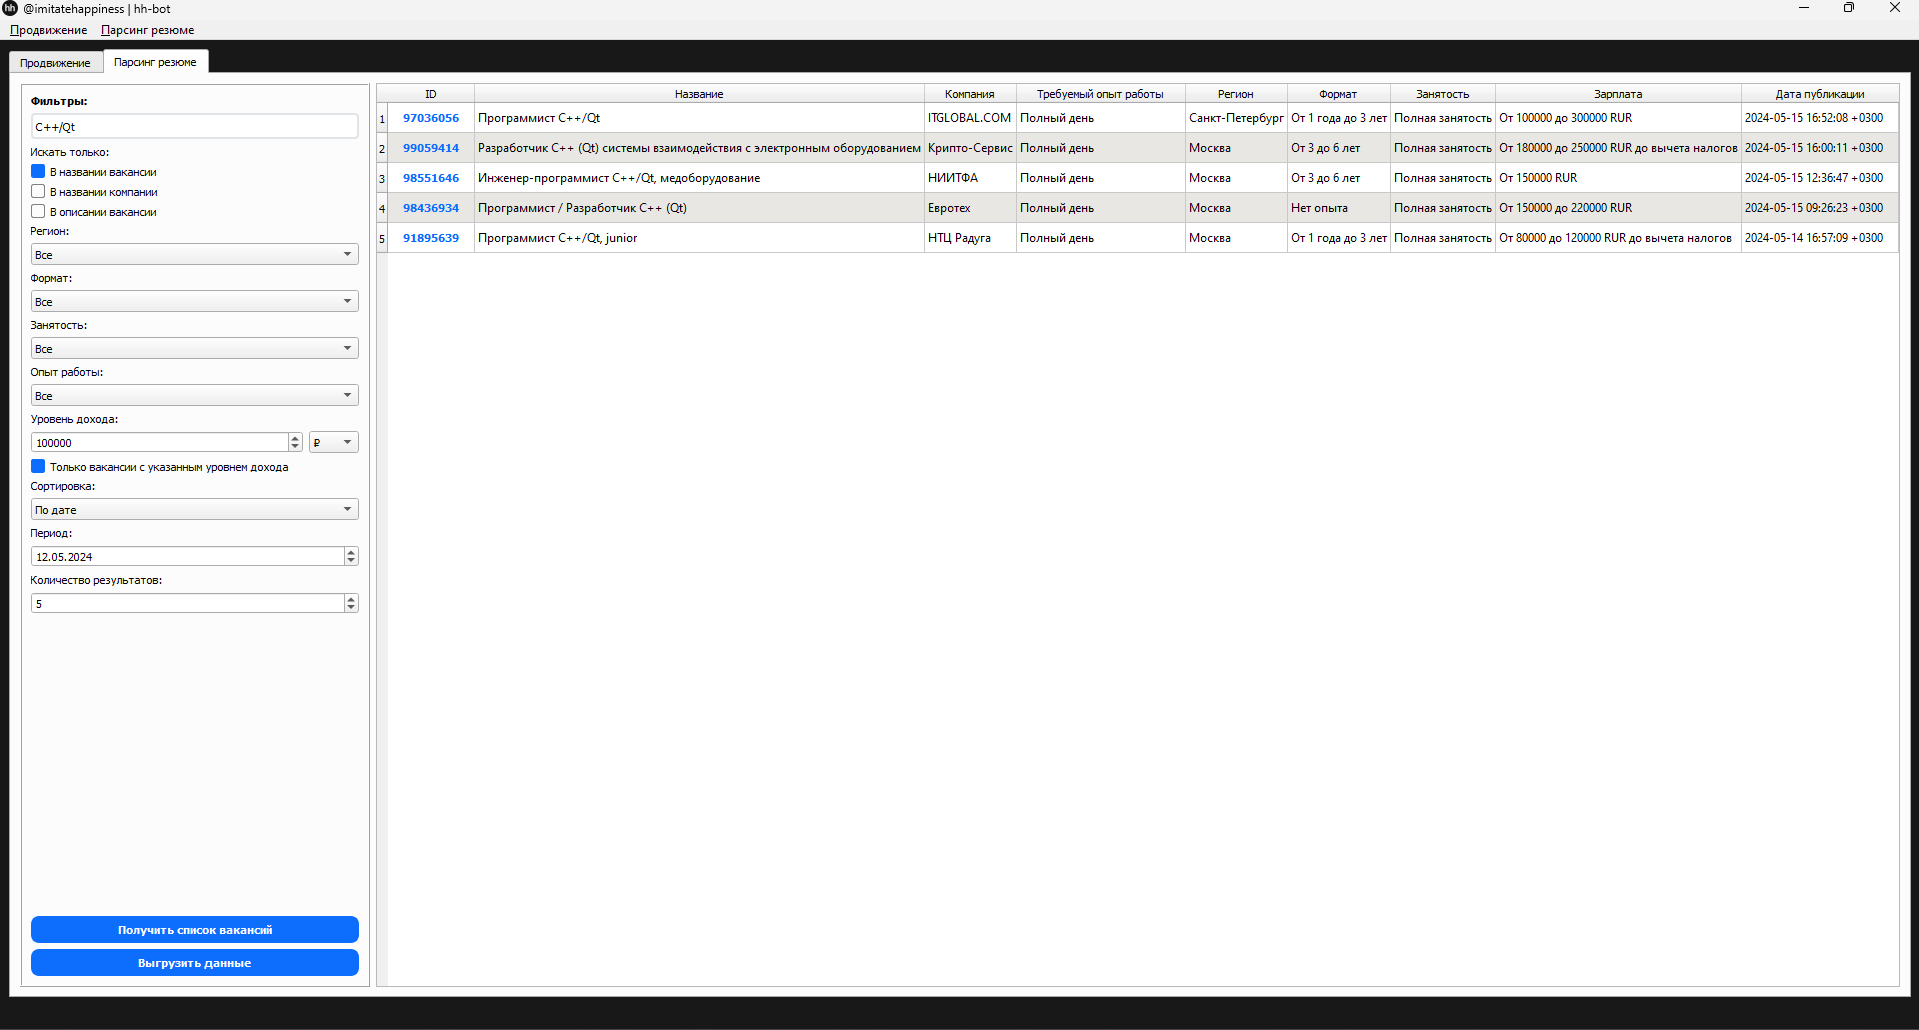
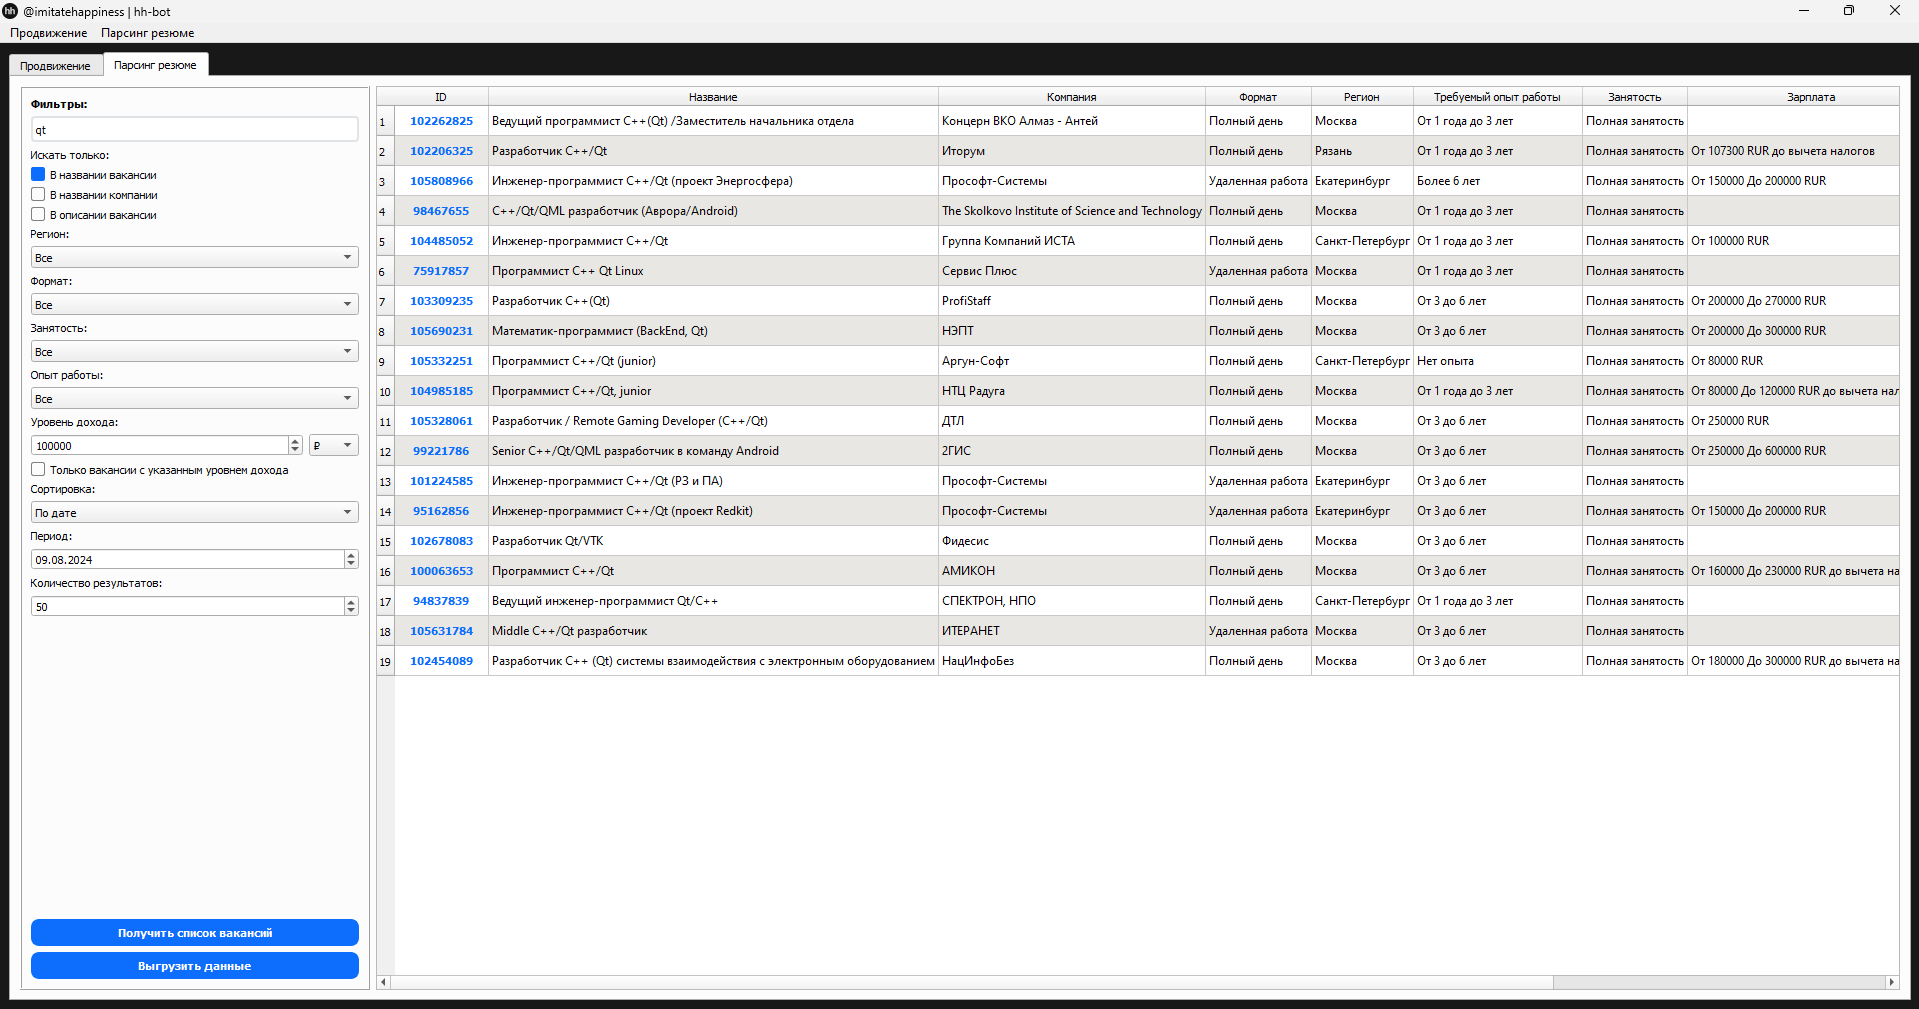
Signed-off-by: IVAN KALENSKY <imitatehappiness@mail.ru>

diff --git a/HeadHunterBot/mainwindow.cpp b/HeadHunterBot/mainwindow.cpp
@@ -31,6 +31,7 @@ MainWindow::MainWindow(QWidget *parent)
     , mParsingSettingMenu(new QMenu(HHManager::parsingResume,this))
     , mTrayMenu(new QMenu(this))
 {
+    qDebug()<<"QSslSocket="<<QSslSocket::sslLibraryBuildVersionString();
     ui->setupUi(this);
     setWindowTitle(TITLE);
 
@@ -57,9 +58,9 @@ MainWindow::MainWindow(QWidget *parent)
             << HHManager::idHeader
             << HHManager::nameHeader
             << HHManager::companyHeader
-            << HHManager::experienceHeader
-            << HHManager::regionHeader
             << HHManager::scheduleHeader
+            << HHManager::regionHeader
+            << HHManager::experienceHeader
             << HHManager::employmentHeader
             << HHManager::salaryHeader
             << HHManager::publicationDateHeader;

diff --git a/HeadHunterBot/resumemanager.h b/HeadHunterBot/resumemanager.h
@@ -1,5 +1,6 @@
 #pragma once
 
+#include "QtNetwork/qnetworkreply.h"
 #include <QObject>
 #include <QTimer>
 #include <QNetworkRequest>
